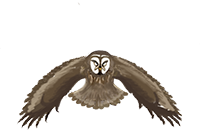
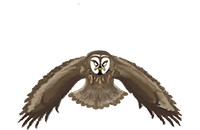
Fine tuned the owl images, removed white spots

diff --git a/js/scene/game/section/EnemySection.js b/js/scene/game/section/EnemySection.js
@@ -27,7 +27,7 @@ function EnemySection() {
 
 }
 
-EnemySection.weight = 1;
+EnemySection.weight = 1000;
 
 EnemySection.prototype = new Section();
 
